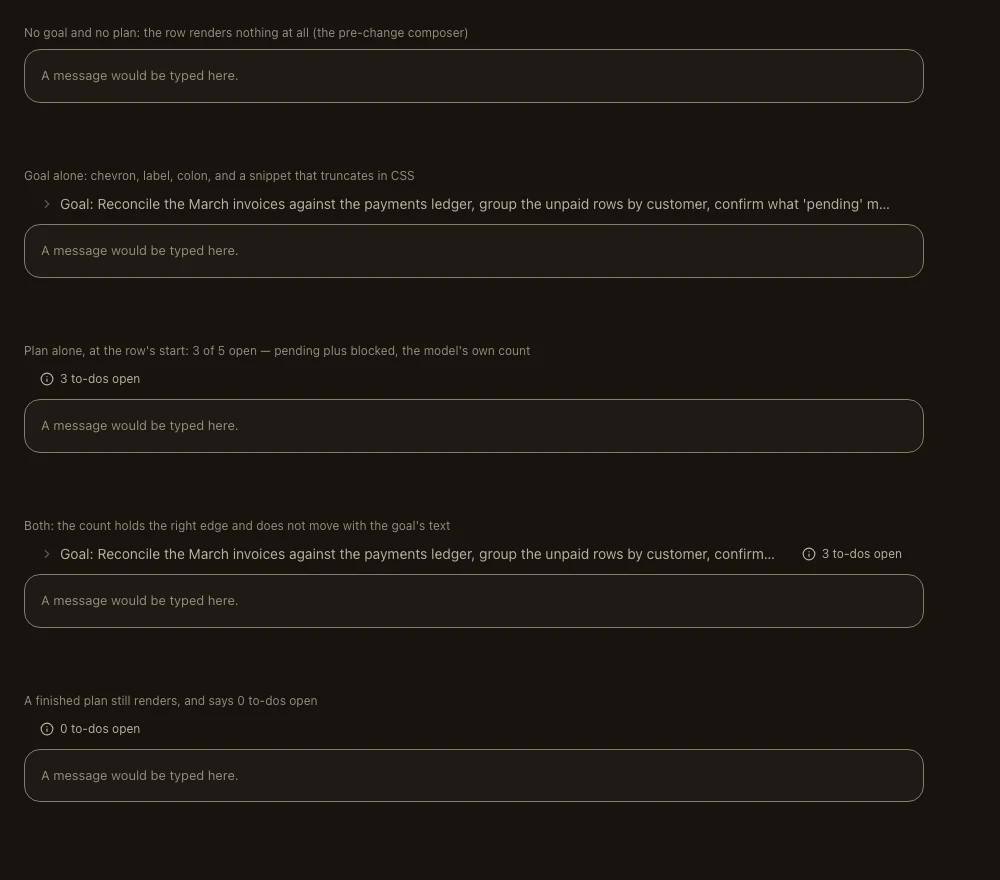
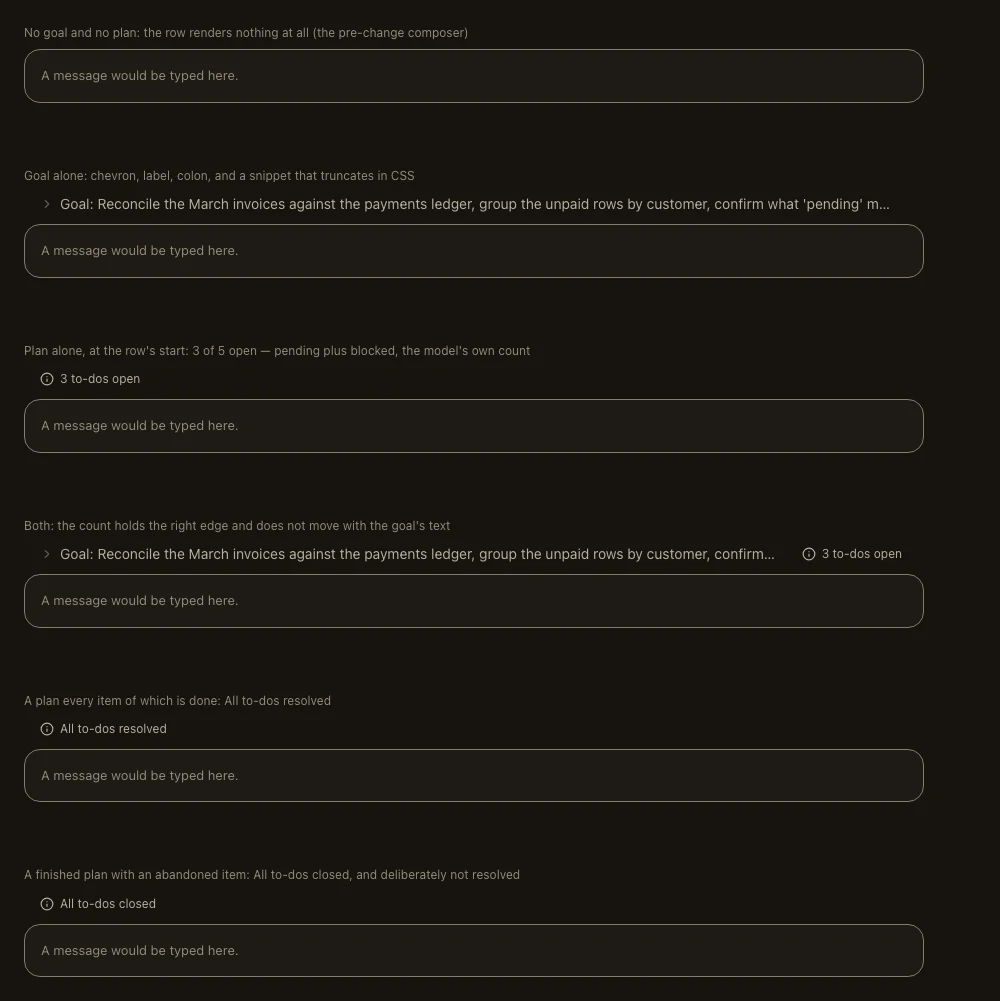
docs(evidence): re-capture the composer status row for the settled-plan copy
The `states` pair is re-taken at 5583fd054, the commit that gave a settled plan its
own copy, so the directory carries a picture of both settled spellings: `All
to-dos resolved` beside `All to-dos closed`. The band was added to the story in
that commit; this one carries the pixels and the record of the pass.

- Only `states/localOperatorDark.webp` and `states/localOperatorLight.webp`
  changed bytes. The other three directories were rewritten by the same
  `--only=chat-composer-status-row` pass and came back byte-identical, which is
  the evidence that the copy change moved no height, no in-flight count and
  nothing at the column floor.
- `manifest.json` re-derives `srcTree`/`scriptsTree` from this head
  (`git rev-parse HEAD:src` / `HEAD:scripts`) and accumulates the pass in
  `partialCapture`; `head` and `capturedAt` are the capture's own values.
- The README records the pass and the widths measured off the frames rather than
  assumed: the settled chips' ink spans x=40-165 (`resolved`) and x=40-154
  (`closed`) against the count chip's x=40-139, on the same 14px mark-and-label
  line, so the widest settled chip is ~137px of box against the floor's 156px
  content box and no band's height moves.

diff --git a/docs/evidence/chat-composer-status-row/README.md b/docs/evidence/chat-composer-status-row/README.md
@@ -19,9 +19,21 @@ This pass ran against 6018: a sibling worktree's Storybook was already listening
 6017, and the frames are whatever the URL you pass is serving.
 
 `--themes` is the two brand palettes, which is `branding.md` § 9.9's minimum, and
-the light pass is where contrast defects hide. The tree is the commit that added
-this surface; `manifest.json`'s `srcTree`/`scriptsTree` and `partialCapture` carry
-it, as they do for every frame here.
+the light pass is where contrast defects hide. The tree that added this surface
+is what `manifest.json`'s `srcTree`/`scriptsTree` and `partialCapture` carried
+then, as they do for every frame here.
+
+**The `states` pair was re-taken for the settled-plan copy** (`fix(composer):
+state a settled plan instead of a zero count`): the chip's finished case printed
+`0 to-dos open`, which stated the remainder rather than the plan's ending, and it
+now says what settled. The two bands that carry that pair are `All to-dos
+resolved` (every item done) and `All to-dos closed` (one dropped, and
+deliberately not `resolved`) — the sixth band's label says the second half out
+loud so the difference is not left to the reader's eye. The run above is that
+pass, and `partialCapture` records it at the head that made the change. The other
+three directories were re-written by the same run and came back byte-identical,
+which is what says the copy change moved no height, no in-flight count and
+nothing at the column floor.
 
 ## What is in each frame, and what it proves
 
@@ -56,9 +68,20 @@ record's arithmetic — and stated because four of them are what the record's
 | Row `overflowX` | 0 | **0** | **0** |
 | Expanded body measure | (see below) | — | **136px** client, **120px** tall (six whole lines) against **300px** of content — the cap and its own scroller |
 
+**The settled chips are wider than the count chip, and the frames say by how
+much.** Read off the re-captured `states` pair the same way the table above was
+read: the count chip's ink spans x=40–139, `All to-dos closed` x=40–154 and
+`All to-dos resolved` x=40–165, all three starting at the same leading edge and
+occupying the same 14px mark-and-label line — so the settled copy adds up to
+26px to a chip that is already `shrink-0`, and changes no band's height. The
+widest settled chip is therefore ~137px of box against the floor's 156px content
+box; that case is arithmetic here rather than a frame, because `column-floor`
+photographs the count form and this pass did not add a settled band to it.
+
 Measured with a real browser on these stories, out of the live DOM — not
 re-derived from the record's arithmetic, which is what made the first version of
-this table wrong in two rows. The two corrections worth naming: the floor is 172px
+this table wrong in two rows.
+The two corrections worth naming: the floor is 172px
 and takes the small-view step (so 54px, not 58px, and the body is 136px, not the
 168px a large-view inset produced), and the goal's label is VISIBLE at the floor
 rather than `sr-only` (design review round 1, D3 and D4).
